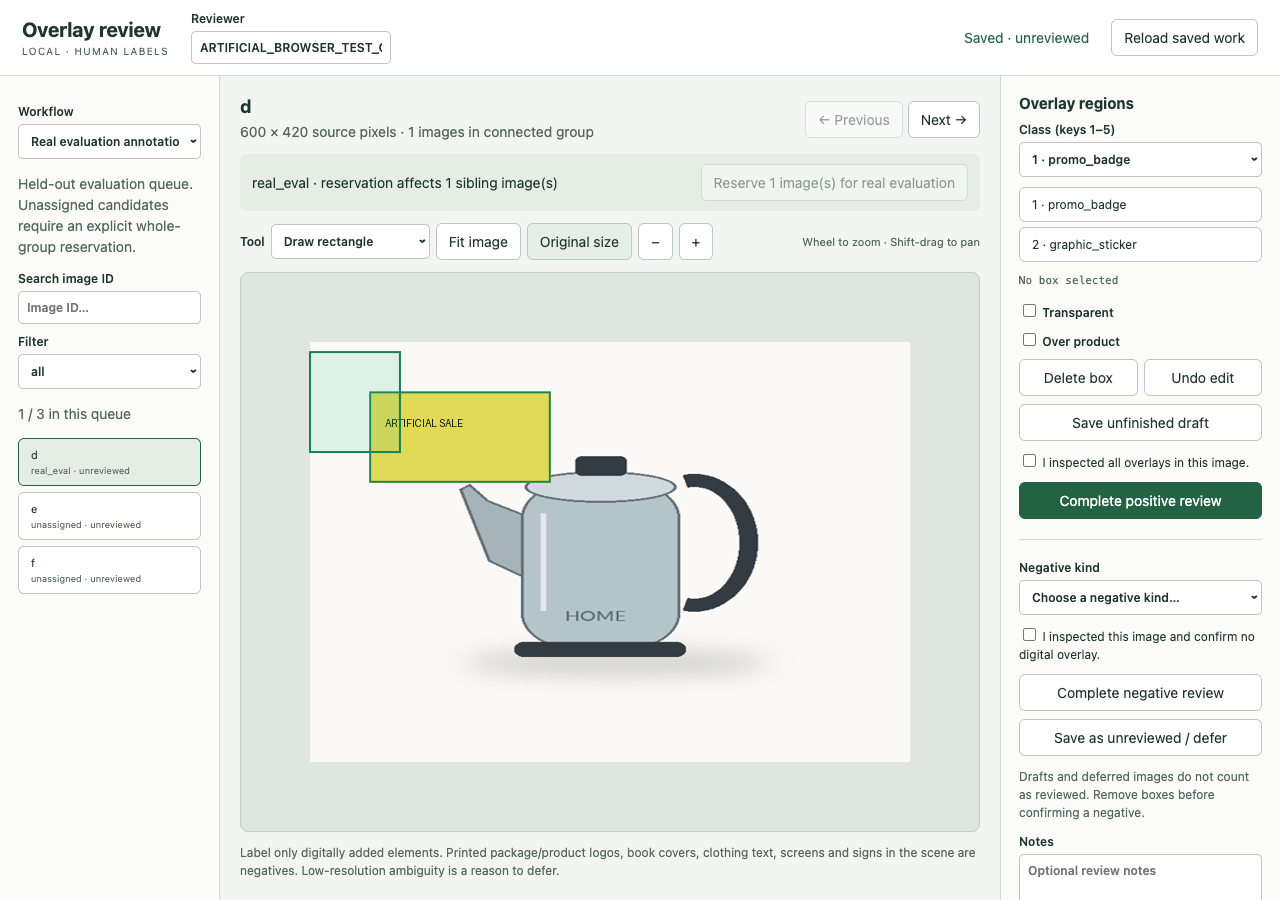
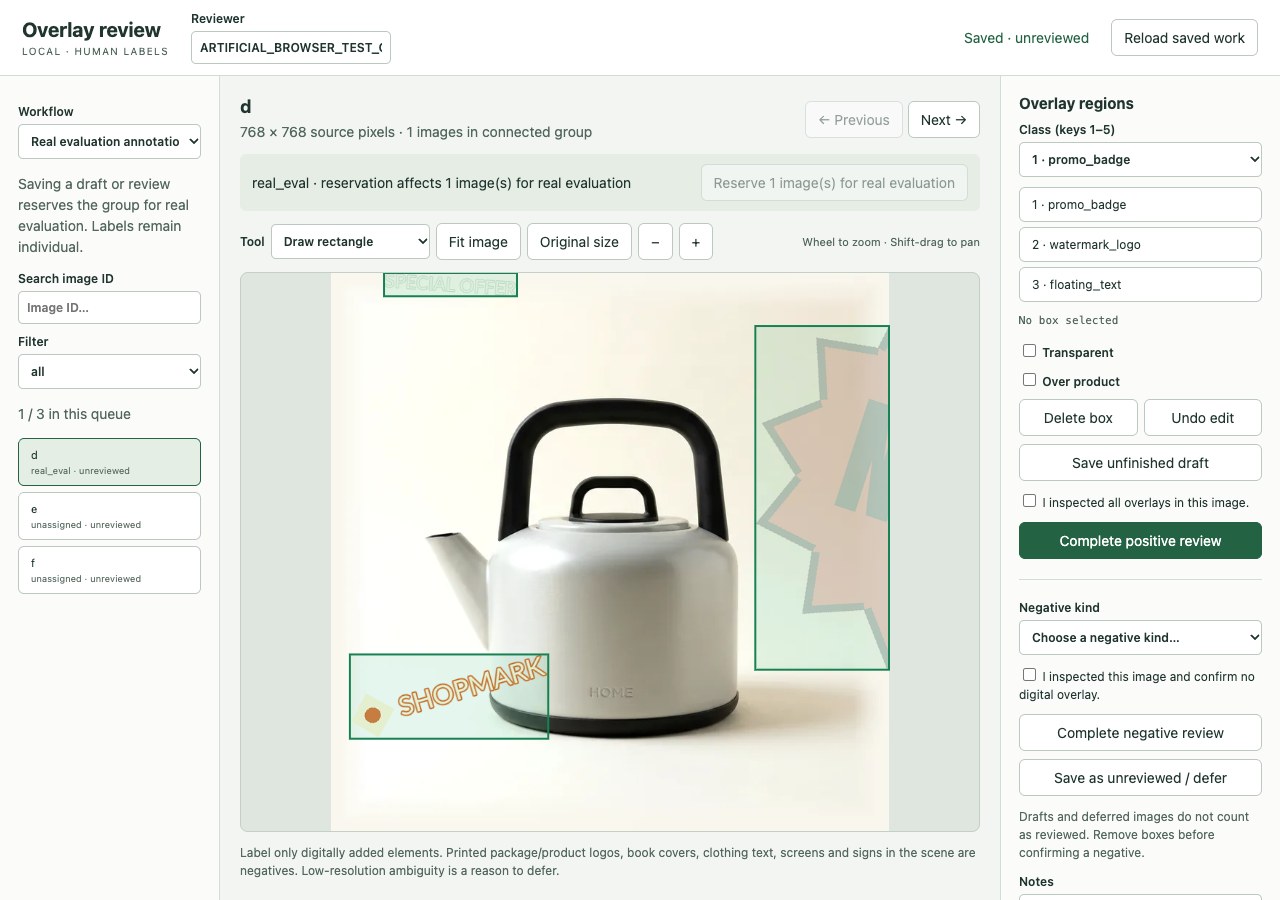
Match slide 7 caption to the new sheet; reshoot slide 8 labeling tool
The Gate 1 caption now gives the re-rendered sheet's counts (120 boxes,
23 negatives). labeling_ui.png is a new screenshot of the real labeling
tool on the generated kettle photo with its three boxes.

diff --git a/index.html b/index.html
@@ -541,7 +541,7 @@ body.with-notes #edit-bar{bottom:calc(224px + env(safe-area-inset-bottom,0px))}
           </g>
         </g>
       </svg>
-      <div class="sheet" data-step="3"><img src="assets/synthetic_contact_sheet.jpg" alt="A 25-image contact sheet of synthetic overlays on product photos, with labeled boxes."><svg viewBox="0 0 960 600" style="position:absolute;inset:0;width:100%;height:100%" aria-hidden="true"><g transform="rotate(-12 700 160)"><rect x="520" y="110" width="360" height="100" rx="10" fill="none" stroke="#ffcf32" stroke-width="5"/><text x="700" y="178" text-anchor="middle" class="stamp fill" font-size="54">LOOKS GOOD ✓</text></g></svg><div class="tagline"><b>Gate 1</b> · 100 images, 128 boxes, 20 negatives · the agent waited</div></div>
+      <div class="sheet" data-step="3"><img src="assets/synthetic_contact_sheet.jpg" alt="A 25-image contact sheet of synthetic overlays on product photos, with labeled boxes."><svg viewBox="0 0 960 600" style="position:absolute;inset:0;width:100%;height:100%" aria-hidden="true"><g transform="rotate(-12 700 160)"><rect x="520" y="110" width="360" height="100" rx="10" fill="none" stroke="#ffcf32" stroke-width="5"/><text x="700" y="178" text-anchor="middle" class="stamp fill" font-size="54">LOOKS GOOD ✓</text></g></svg><div class="tagline"><b>Gate 1</b> · 100 images, 120 boxes, 23 negatives · the agent waited</div></div>
     </div>
     <div class="who">
       <div class="role agent" data-step="1"><span class="tag"><svg><use href="#i-agent"/></svg>Agent</span><p>Built a generator for all five classes: shapes, fonts, placement, opacity, occlusion, clipped boxes. 108 tests.</p></div>
@@ -597,7 +597,7 @@ body.with-notes #edit-bar{bottom:calc(224px + env(safe-area-inset-bottom,0px))}
         </g>
         <text x="470" y="560" text-anchor="middle" font-family="Lato,sans-serif" font-size="13" fill="#6b7280">Label only digitally added elements. Printed logos, covers, screens and signs are negatives. Low resolution is a reason to defer.</text>
       </svg>
-      <div class="sheet" data-step="2"><img src="assets/labeling_ui.png" alt="Screenshot of the real labeling tool with two boxes drawn on an illustrated kettle, class selector, and review buttons."><div class="tagline"><b>The real thing.</b> The agent launched it and drove Chrome itself: drag, reverse drag, resize, undo, zoom, pan, reload, save. 168 tests.</div></div>
+      <div class="sheet" data-step="2"><img src="assets/labeling_ui.png" alt="Screenshot of the real labeling tool with three boxes drawn on a kettle photo, class selector, and review buttons."><div class="tagline"><b>The real thing.</b> The agent launched it and drove Chrome itself: drag, reverse drag, resize, undo, zoom, pan, reload, save. 168 tests.</div></div>
     </div>
     <div class="who">
       <div class="role agent" data-step="1"><span class="tag"><svg><use href="#i-agent"/></svg>Agent</span><p>Standard-library server, SVG canvas, keyboard shortcuts, drafts, atomic saves with backups. No build step.</p></div>

diff --git a/README.md b/README.md
@@ -71,6 +71,8 @@ sit on top of them. `prod-oats`, `prod-kettle` and `prod-tshirt` were added late
 way to complete the product set. `synthetic_contact_sheet.jpg` (slide 7) is a re-render: the
 `overlay` project's real generator (`scripts/generate_synthetic.py`, default config, seed 42,
 100 samples) run over the eight `prod-*` photos in place of the original illustrated fixtures.
+`labeling_ui.png` (slide 8) is a fresh screenshot of the real labeling tool on an artificial
+fixture: sample 0000074 from that run (the kettle) with its three generated boxes loaded as a draft.
 `false_negative.jpg` (slide 15) is a re-render of the evaluator's
 error image built from `prod-shoe` with the same composited watermark.
 
